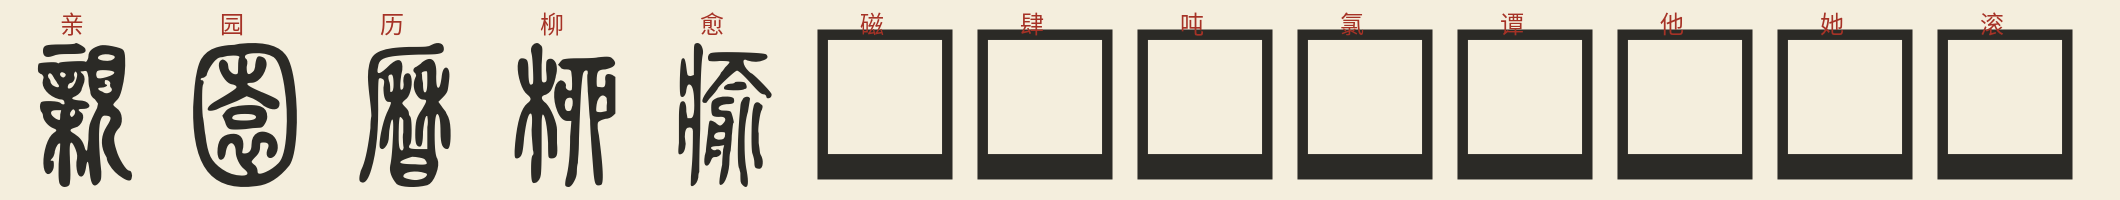
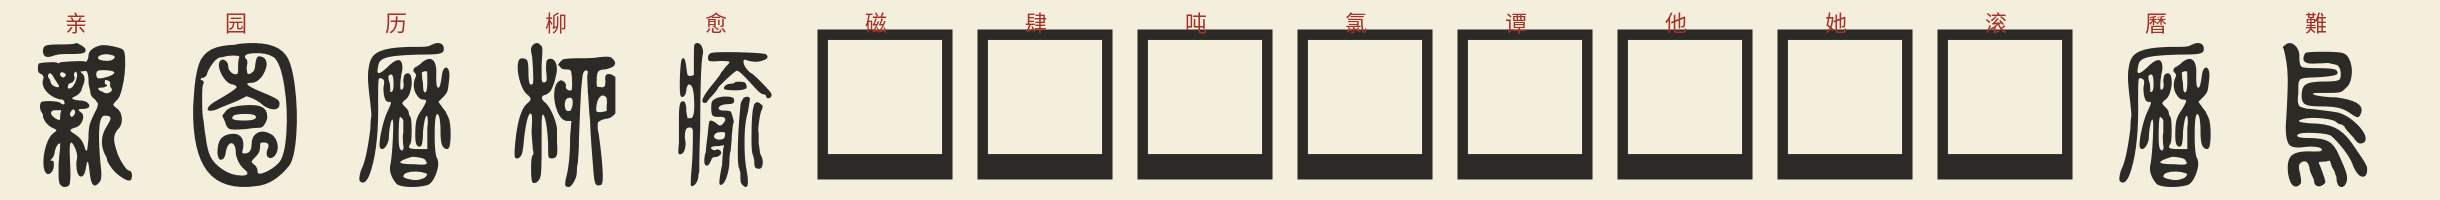
v0.1.4 门禁完善：分款缺形豁免（曆 QJZ/DYC 官方缺口）＋自检样张

diff --git a/check_fonts.py b/check_fonts.py
@@ -143,12 +143,23 @@ def check_font(fn, version, baseline_counts, golden, fallbacks, swpos,
                 if fam == fam_key_gap:
                     gaps.add(int(cp, 16))
 
-    # Q4：黃金映射表
+    # Q4：黃金映射表（分款缺形豁免集在此計算）
+    fam_missing = set()
+    gp3 = os.path.join(os.path.dirname(os.path.abspath(__file__)),
+                       "data", "分款缺形.tsv")
+    if os.path.exists(gp3):
+        for line in open(gp3, encoding="utf-8").read().splitlines()[1:]:
+            if line.strip():
+                fam, cp, *_ = line.split("\t")
+                if fam == fam_key:
+                    fam_missing.add(int(cp, 16))
     for ch, (want_cp, want_kai) in golden.items():
         gn = cmap.get(ord(ch))
         if gn is None:
-            # 分款回退或分款缺口（顯式豁免，Q6）
+            # 分款回退或分款缺形（顯式豁免，Q6）
             if ch in fallbacks.get("codes", set()):
+                continue
+            if want_cp in fam_missing:
                 continue
             want_pos = swpos.get(ch)
             if want_pos is not None and want_pos in gaps:
@@ -172,6 +183,16 @@ def check_font(fn, version, baseline_counts, golden, fallbacks, swpos,
     for ch in golden_missing:
         if ord(ch) in cmap:
             fail(f"[{tag}] Q4 「{ch}」应未收回退，但 cmap 有映射")
+    # 分款缺形豁免（Q6）：官方编号列缺失的小篆码位，该款 cmap 无字形合法
+    fam_missing = set()
+    gp3 = os.path.join(os.path.dirname(os.path.abspath(__file__)),
+                       "data", "分款缺形.tsv")
+    if os.path.exists(gp3):
+        for line in open(gp3, encoding="utf-8").read().splitlines()[1:]:
+            if line.strip():
+                fam, cp, *_ = line.split("\t")
+                if fam == fam_key:
+                    fam_missing.add(int(cp, 16))
 
     # Q4 為精確碼位匹配（寬縱會掩蓋短碼位差錯映——desktop-lead 複核發現）；
     # 例外：① 白名單顯式豁免；② 分款回退字（核對回退確實生效後通過）
@@ -188,6 +209,8 @@ def check_font(fn, version, baseline_counts, golden, fallbacks, swpos,
                 continue
             fail(f"[{tag}] Q4 分款回退未生效：「{ch}」應經 U+{fb_cp:X} 借形")
             continue
+        if want_cp not in cmap and want_cp in fam_missing:
+            continue   # 分款缺形（官方数据缺口，Q6 豁免）
         if code in cmap and want_cp not in rev.get(cmap[code], set()):
             actual = rev.get(cmap[code], set())
             fail(f"[{tag}] Q4 「{ch}」映射為 {sorted(hex(a) for a in actual)}，"
